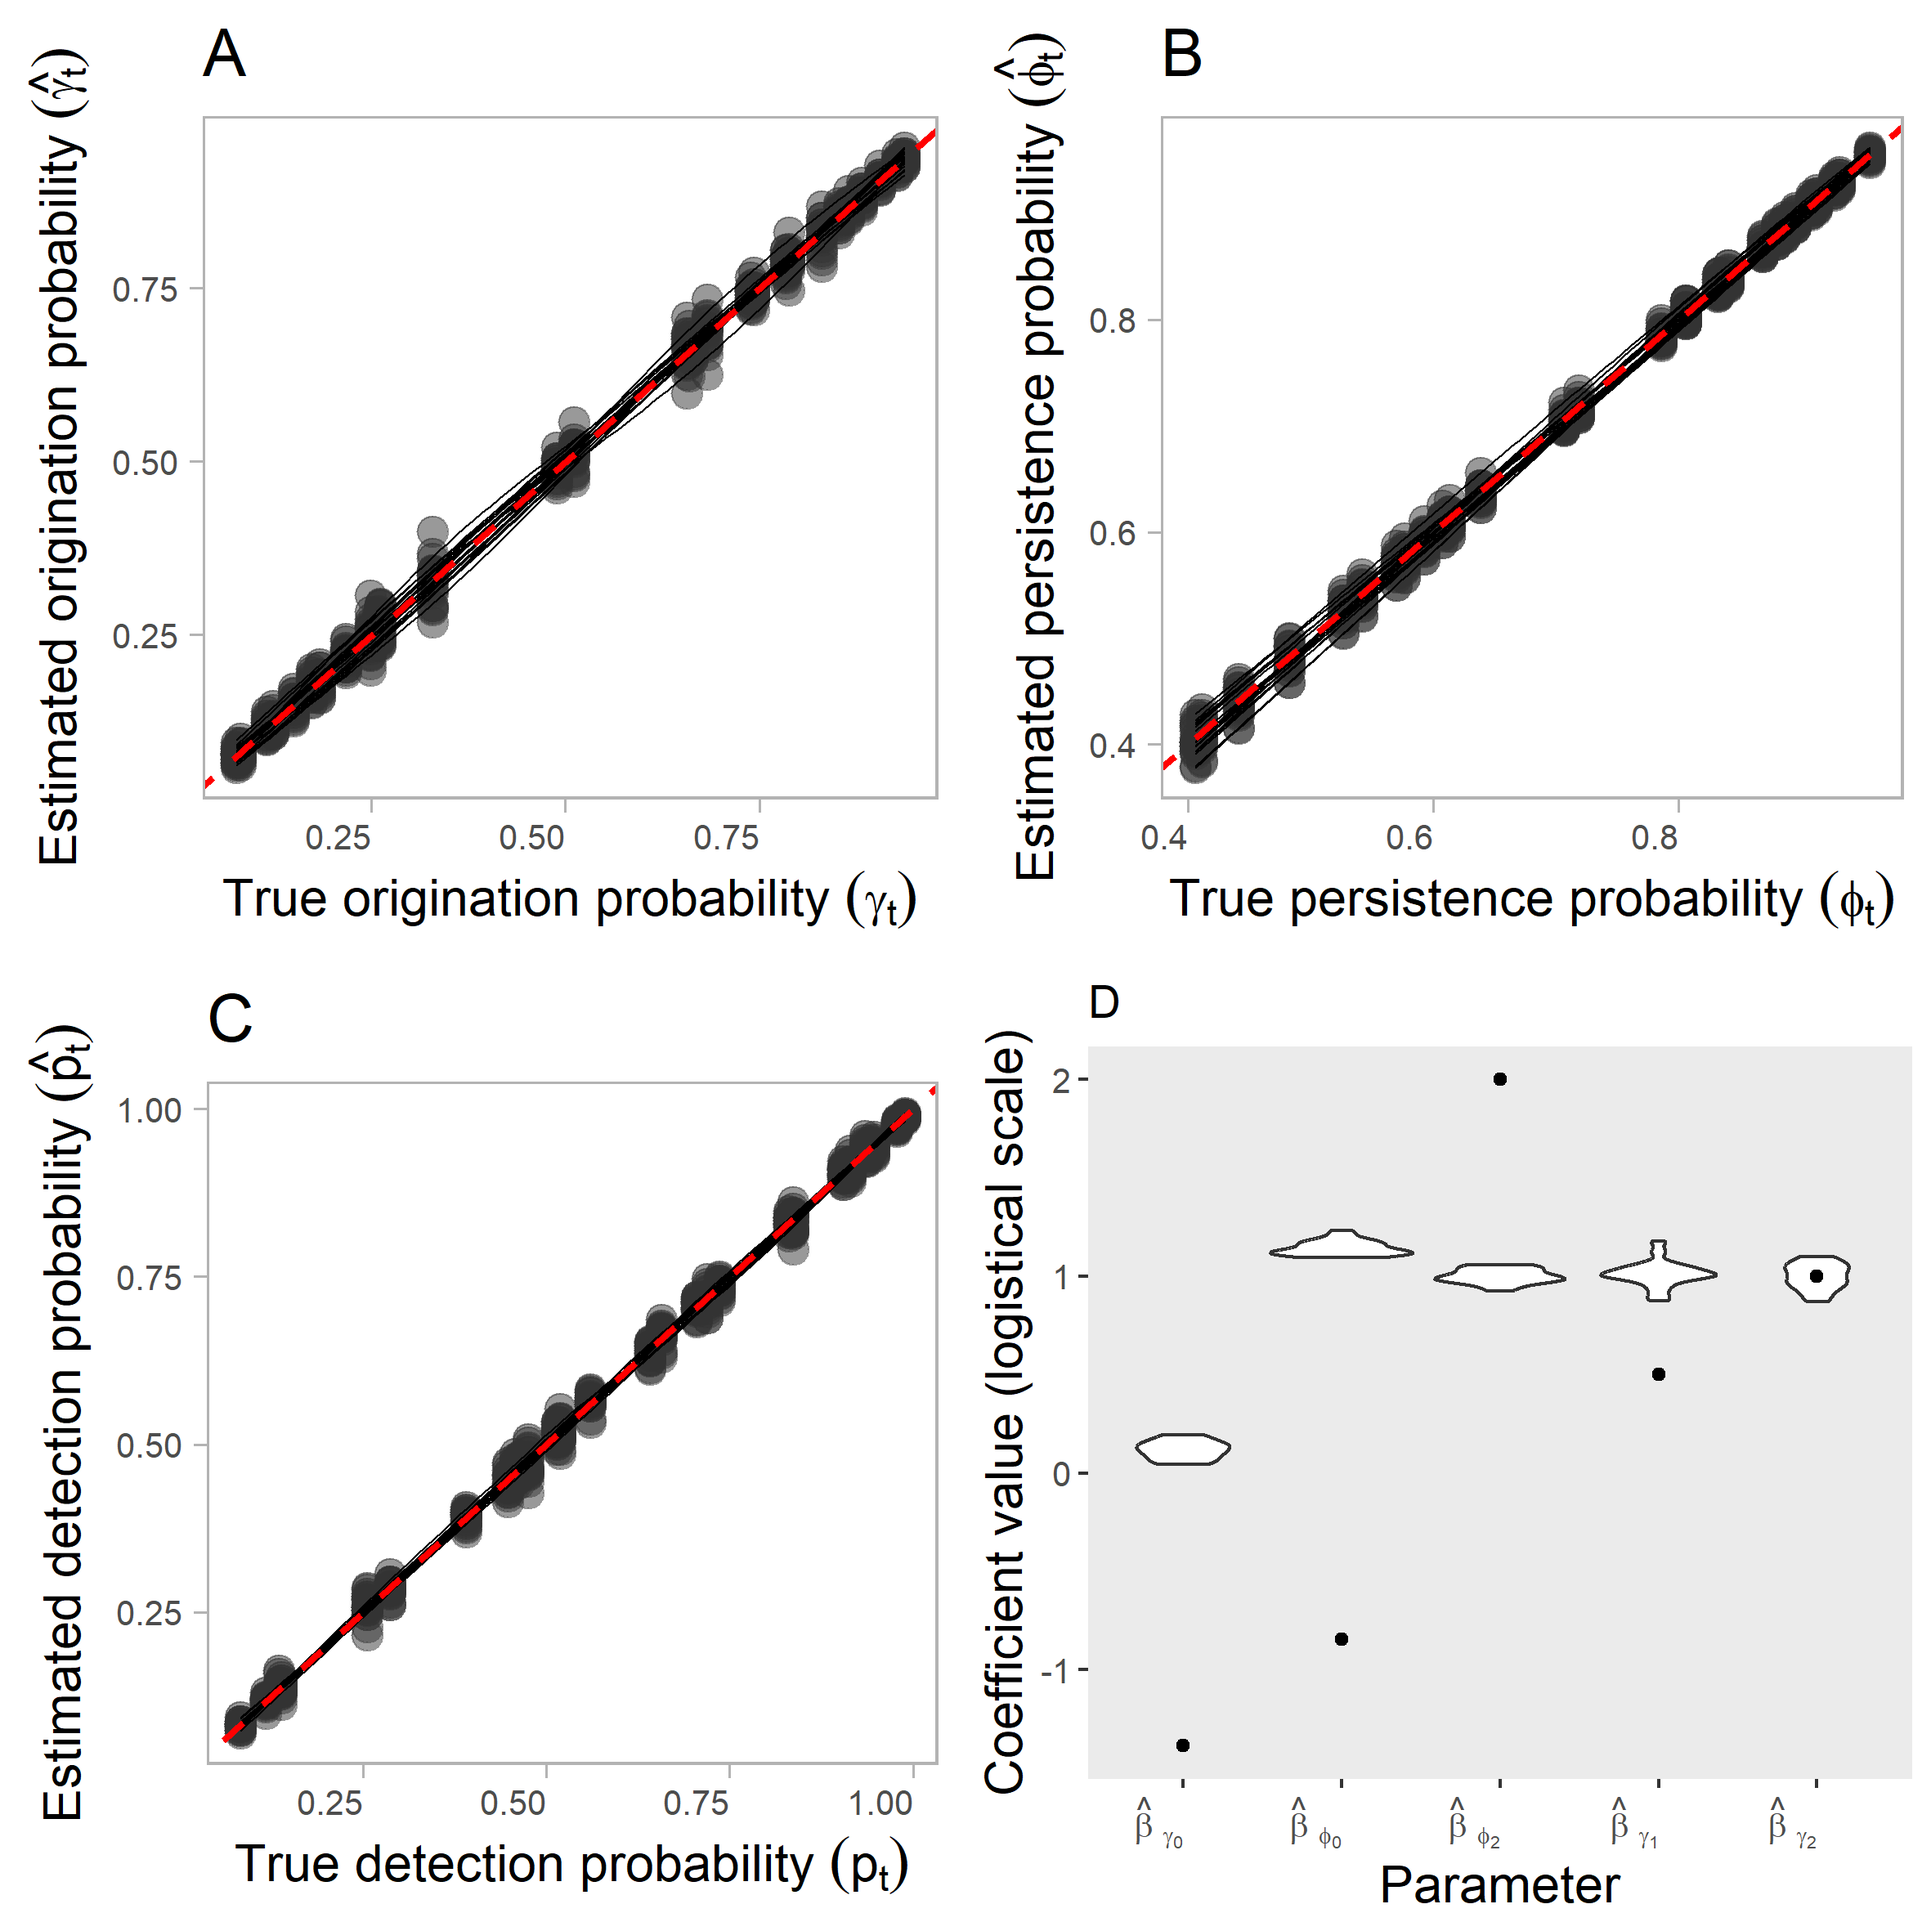
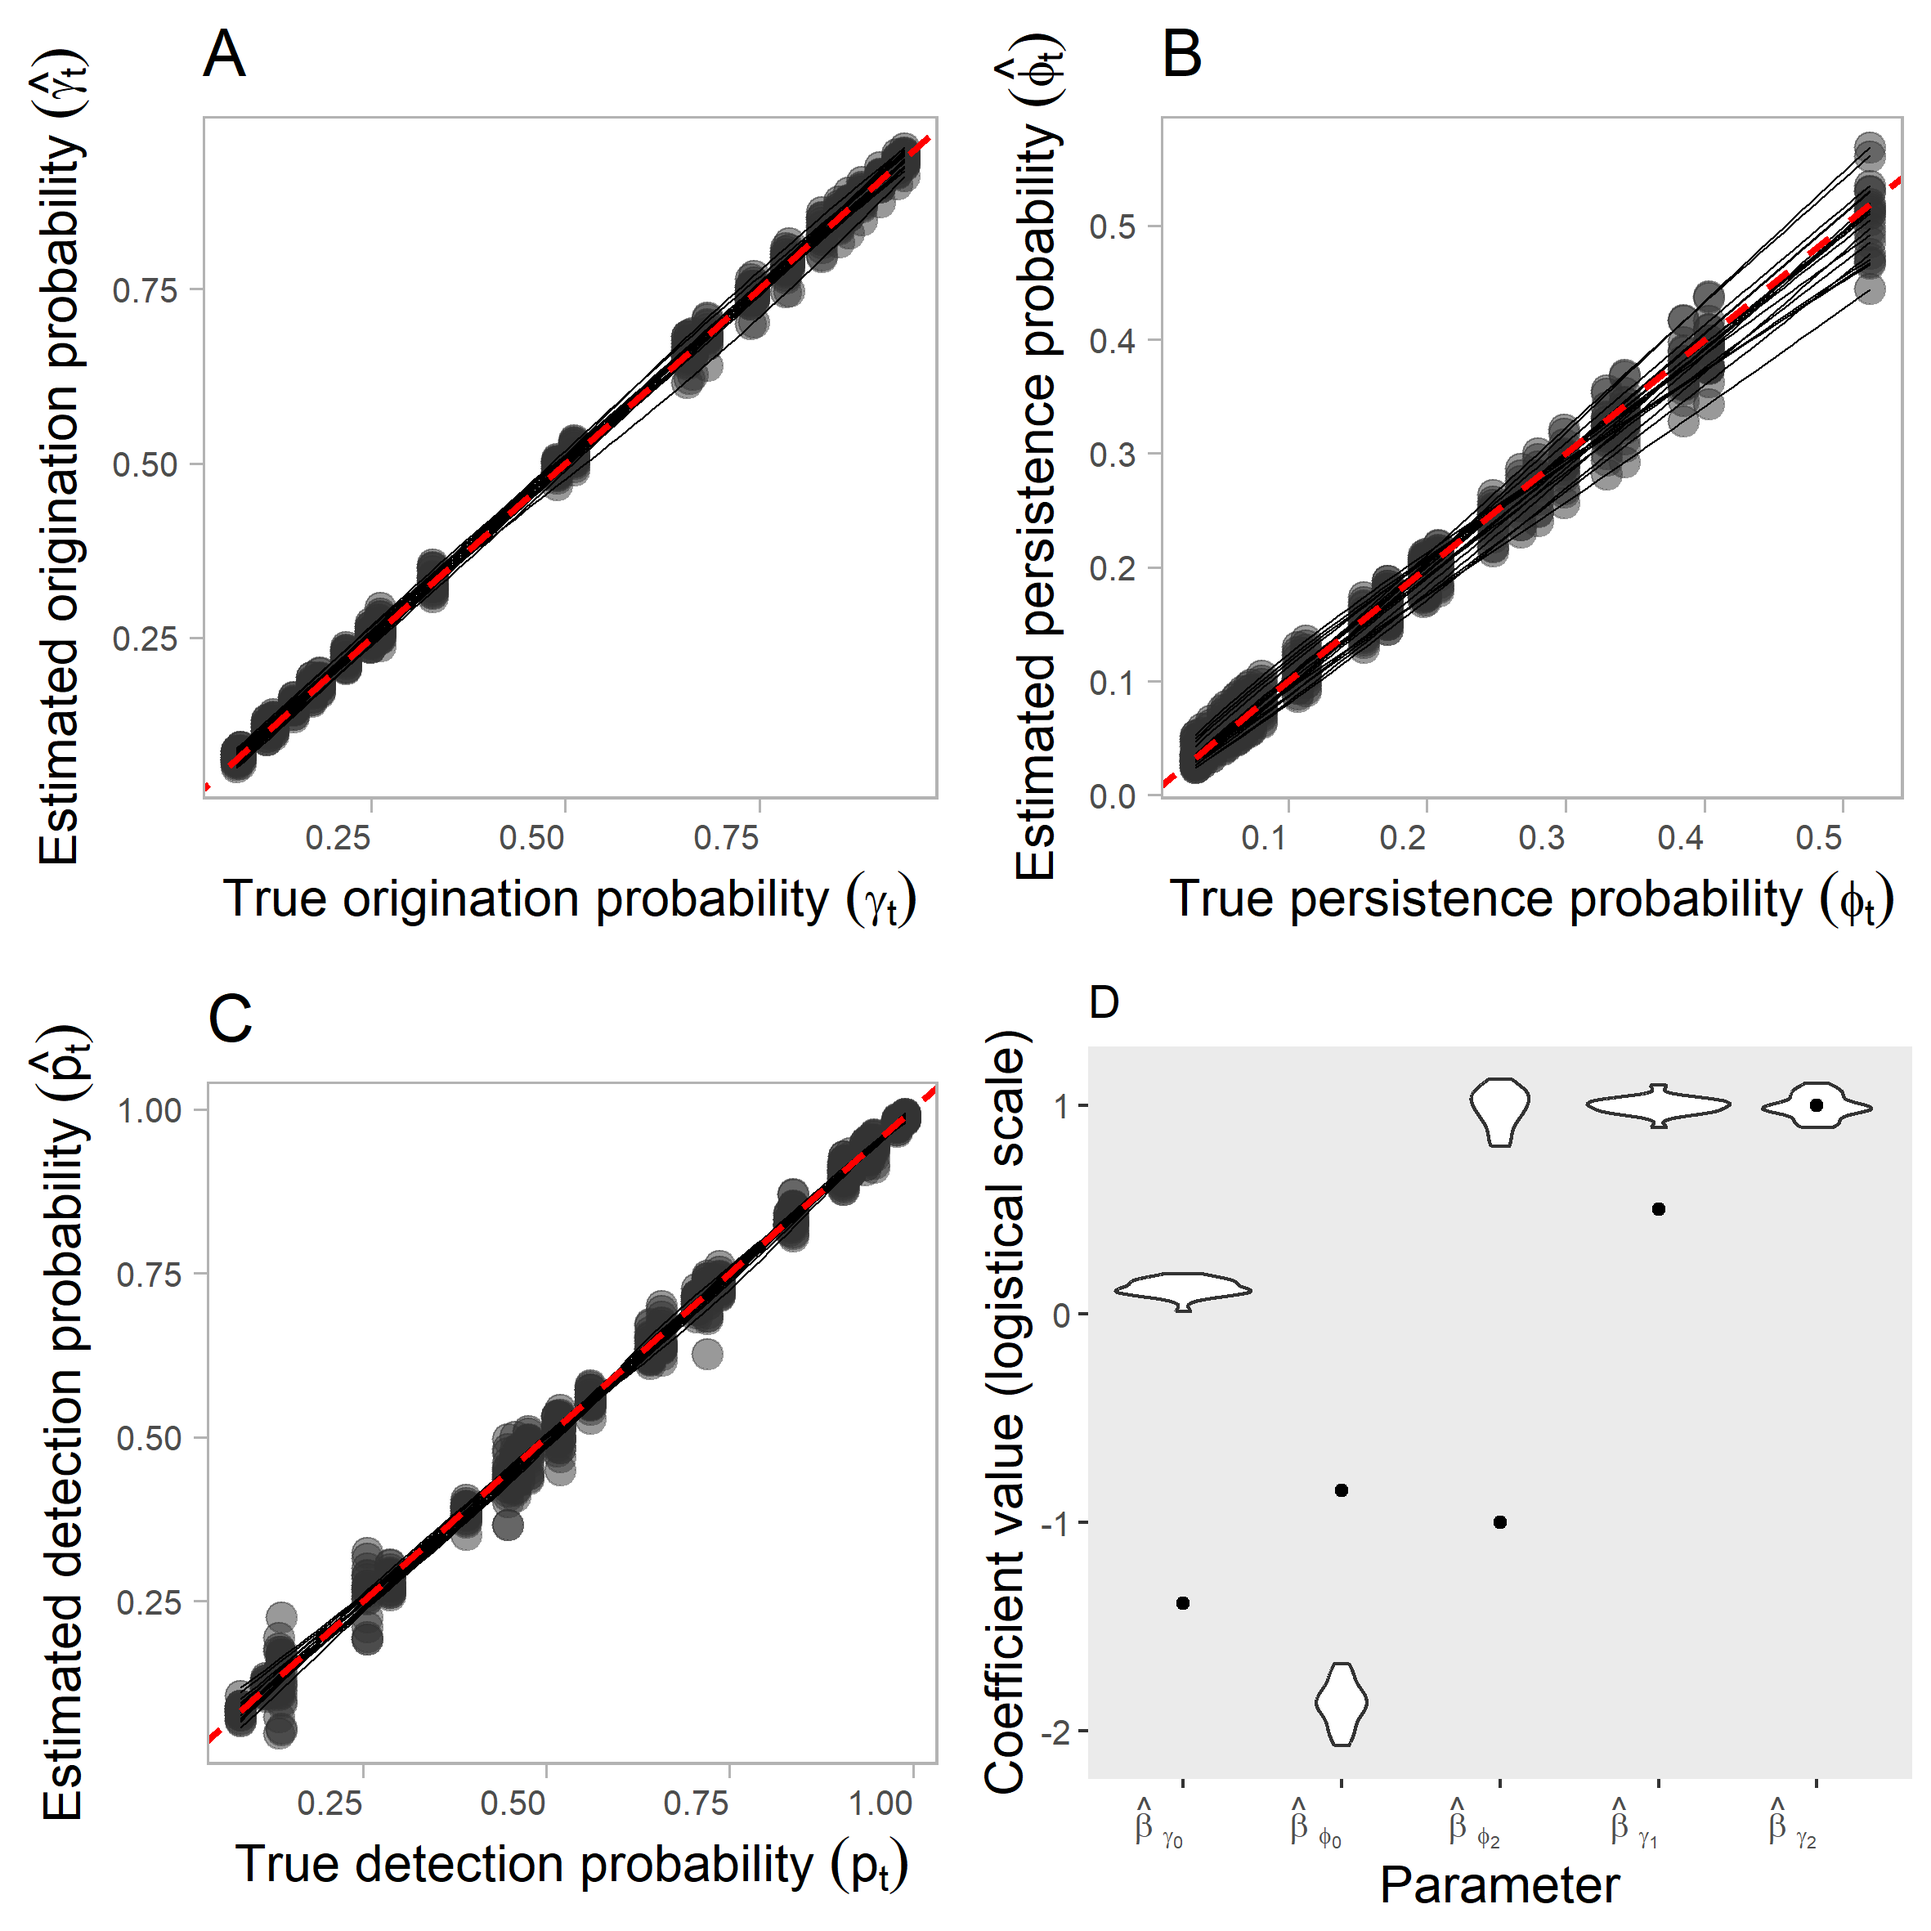
updating sim results

diff --git a/simulations/SIMULATIONS.md b/simulations/SIMULATIONS.md
@@ -36,7 +36,7 @@ of genera that ever existed in the end Paleozoic - end Mesozoic Eras)
 following Dorazio & Royle (2005)
 (<http://dx.doi.org/10.1198/016214505000000015>), and used the detection
 model described in Schaub & Kery (2012). More specifically, our data
-$y_{gt$ consist of counts of the number of geological formations in
+$y_{gt}$ consist of counts of the number of geological formations in
 which each genus $g$ was detected in each time bin $t$. The complete
 model can be summarized as:
 
@@ -69,7 +69,7 @@ Bayesian state-space formulation of dynamic occupancy models. Ecology.
 important that this model is able to estimate the dynamics as well the
 relevant parameters in the models. As such, we focused our simulations
 on this portion of the model. Interesting simulations of the community
-size $\OMEGA$ can be found in Tingley et al. (2020, DOI:
+size $\Omega$ can be found in Tingley et al. (2020, DOI:
 10.1111/2041-210X.13378) and Guillera-Arroita et al. (2018, DOI:
 10.1002/ece3.4821).
 
@@ -94,10 +94,10 @@ overlap of covariates (probably the best situation).
 We found that in all the three situations the model can recover the true
 values of $\gamma_t$, $\phi_t$ and $p_t$ used to generate the data
 (Figs. 1-3). However, in rarely the true values of the intercepts
-($\beta_{\gamma~0}$ and $\beta_{\phi~0}$) and regression coefficients
-were recovered by the models ($\beta_{\gamma~1}$ and $\beta_{\phi~1}$
-depicting the effect of the covariate $X1_t$, and $\beta_{\gamma~2}$ and
-$\beta_{\phi~2}$ depicting the effect of the covariate $X2_t$).
+($\beta_{\gamma_ _0}$ and $\beta_{\phi 0}$) and regression coefficients
+were recovered by the models ($\beta_{\gamma_1}$ and $\beta_{\phi_1}$
+depicting the effect of the covariate $X_{1t}$, and $\beta_{\gamma_2}$
+and $\beta_{\phi_2}$ depicting the effect of the covariate $X2_t$).
 
     ## Carregando pacotes exigidos: here
 
